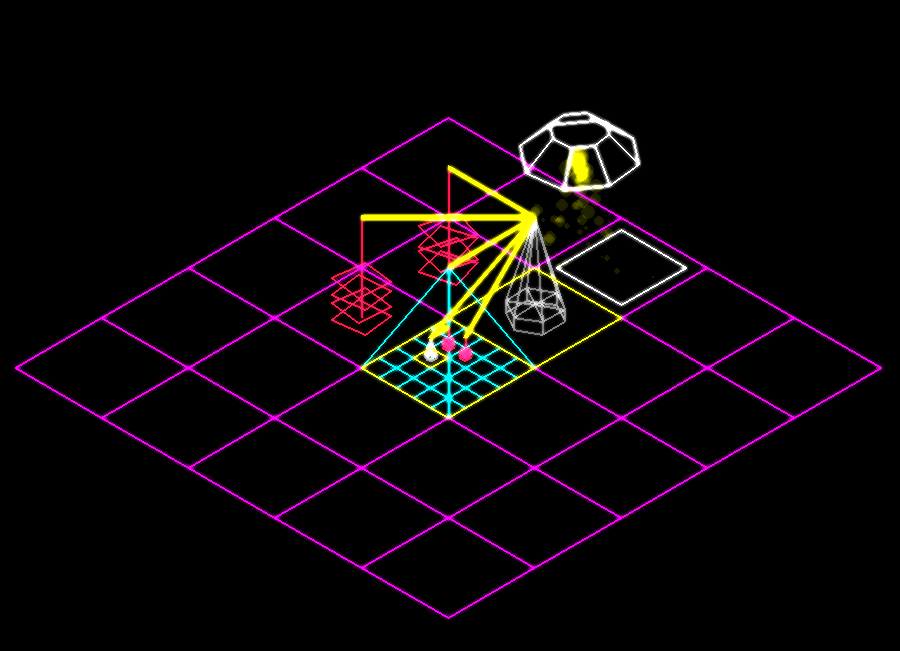
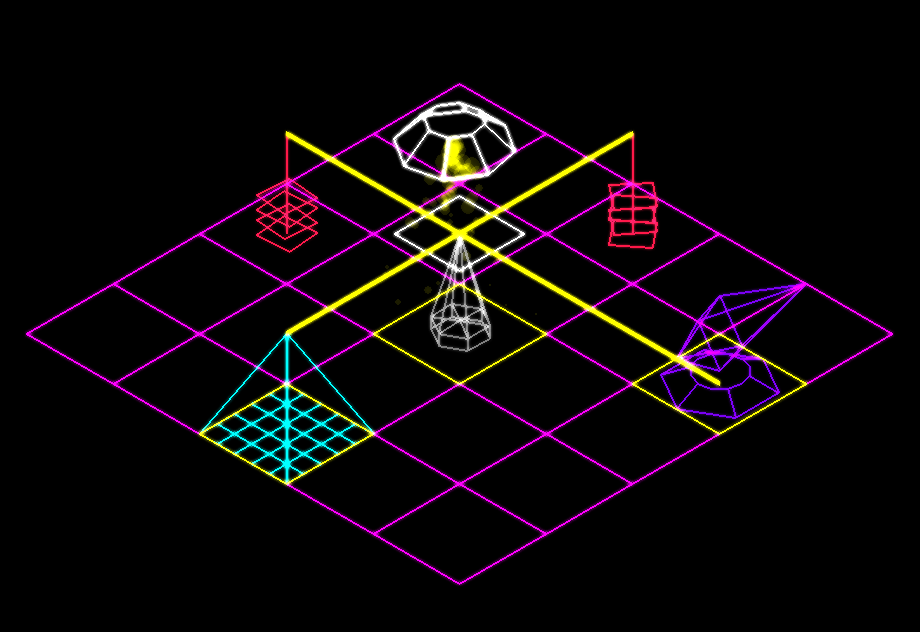
policy for enemies

Changed region(s): [[0.0, 0.1203, 0.9956, 0.962]]

diff --git a/src/game.py b/src/game.py
@@ -134,6 +134,8 @@ class Game:
 
 		self.remove_unhealthy_objects()
 
+		self.place_enemies()
+
 		self.evolve_camera(dt)
 		self.generate_log()
 
@@ -359,6 +361,34 @@ class Game:
 		self.place_powered_object(Cannon())
 	def place_warper(self):
 		self.place_powered_object(Warper())
+
+	def get_base_c_R(self):
+		powered = [o for o in self.objects if isinstance(o,PoweredObject)]
+		for o in powered:
+			assert type(o.r)==Vector2
+		c = Vector2(0,0)
+		for o in powered:
+			c+=o.r
+		if len(powered)==0:
+			c = 0
+			R = 0
+		else:
+			c/=len(powered)
+			R = max([(c-o.r).length() for o in powered])
+		# c = sum([o.r for o in powered])/len(powered)
+		
+		return c, R
+
+	def place_enemies(self):
+		num_bugs = len([o for o in self.objects if isinstance(o,Bug)])
+		num_engines = len([o for o in self.objects if isinstance(o,Engine)])
+		to_place = max(int(num_engines*DIFFICULTY - num_bugs),0)
+		c, R = self.get_base_c_R()
+		R = max(R,5)
+		for i in range(to_place):
+			b = random.choice([nimble,normal,tank])()
+			b.r = c + (R+5)*unit_vector(math.pi*2*random.random())
+			self.objects.append(b)
 
 
 

diff --git a/src/render.py b/src/render.py
@@ -91,7 +91,7 @@ def render_ray(surface,c,game):
 def render_particle(surface,p,game):
 	if abs(p.level - game.camera_level)>2:
 		return
-	R = p.get_radius()*(SUBDIVISION**game.camera_level)*CAMERA_CONSTANT_SCALE
+	R = p.get_radius()*CAMERA_CONSTANT_SCALE
 	particle_surface = pygame.Surface((2*R,2*R))
 	particle_surface.fill(BACKGROUND)
 	pygame.draw.circle(particle_surface,p.color,(R,R),R)
@@ -127,7 +127,7 @@ def get_minimap(game):
 	pygame.draw.circle(surface,game.builder.get_color(),mini_project(game.builder.r),2)
 	mini_objects = [o for o in game.objects if o.level<=game.builder.level ]
 	for o in mini_objects:
-		if type(o) != Bug and type(o) not in [Tower, HighTower]:
+		if type(o) != Bug and type(o) in [Cannon, Warper]:
 			pygame.draw.circle(surface,o.get_color(),mini_project(o.r),BLIP_RADIUS)
 	for o in mini_objects:
 		if isinstance(o,PoweredObject):

diff --git a/src/particle.py b/src/particle.py
@@ -23,11 +23,13 @@ class Particle:
 		f = min(1,self.time/self.max_time)
 		return (1-f)*self.radius
 
-def explosion(number,r,max_v,min_v,bias_v,radius,color):
+def explosion(size,number,r,max_v,min_v,bias_v,radius,color):
 	sqrt3 = math.sqrt(3)
+	r = Vector3(r.x,r.y,r.z*size)
+	bias_v*=size
 	particles = []
 	def rand_v():
-		return (max_v+random.random()*(max_v-min_v))
+		return (max_v+random.random()*(max_v-min_v))*size
 	for i in range(number):
 		p = Particle(r,shift = 1/2)
 		p.color = color

diff --git a/src/object.py b/src/object.py
@@ -14,7 +14,7 @@ class GameObject:
 	def get_particles(self):
 		return []# explosion(1,self.r,1,0.5,K3,0.1)
 	def get_final_particles(self):
-		return explosion(1000,self.r,5,2,K3-K3,0.1,darken(self.get_color(),0.1))
+		return explosion(self.get_render_size(),1000,Vector3(*self.r,1/2),5,2,K3-K3,0.1,darken(self.get_color(),0.1))
 	def evolve(self,dt):
 		self.time+=dt
 	def size(self):

diff --git a/src/builder.py b/src/builder.py
@@ -12,5 +12,5 @@ class Builder(MovingObject):
 		L2 = [b/4 + K3 + K3/4 for b in BASE]
 		return make_pair_list(L1)+make_pair_list(L2)+interweave(L1,L2)
 	def get_particles(self):
-		return explosion(1,Vector3(*self.r,1),1,0,-2*K3,0.1,darken(YELLOW,0.1))
+		return explosion(self.get_render_size(),1,Vector3(*self.r,1),1,0,-2*K3,0.1,darken(YELLOW,0.1))
 

diff --git a/src/cannon.py b/src/cannon.py
@@ -62,7 +62,7 @@ class Cannon(PoweredObject):
 	def get_particles(self):
 		k = self.get_k()
 		if self.target and k==1:
-			return explosion(10,self.target.r,5,2,K3-K3,0.2,darken(GREEN,0.1))
+			return explosion(self.get_render_size(),10,Vector3(*self.target.r,1/2),5,2,K3-K3,0.2,darken(GREEN,0.1))
 		return []
 
 

diff --git a/src/conf.py b/src/conf.py
@@ -52,7 +52,9 @@ def play_sound(s):
 MINI_WIDTH = WIDTH/4
 MINI_HEIGHT = HEIGHT/4
 MINI_SCALE = 4
-BLIP_RADIUS = 2
+BLIP_RADIUS = 3
+
+DIFFICULTY = 0.1 # range from 0 to infinity - 0 has no bugs
 
 
 CLOCK = pygame.time.Clock()

diff --git a/src/battery.py b/src/battery.py
@@ -5,6 +5,9 @@ class Battery(PoweredObject):
 	CAPACITY = 10
 	def get_color(self):
 		return GREEN
+	def __init__(self):
+		super().__init__()
+		self.PORTS = [Port(self,K3/2)]
 	def get_lines(self):
 		n = 4
 		height = 1

diff --git a/README.md b/README.md
@@ -60,7 +60,7 @@ Controls can be configured by changing `./src/controls.py`
 - Cannons shoot any bug within range and at the same spatial scale as them. They do not target bugs in space warped relative to their space, so place cannons at all scales for an effective defense.
 - Cannons draw a lot of power when firing. Place batteries to provide reserve stores for the cannons to draw on in case the engines get destroyed.
 - If a warper loses power, all the elements within it are destroyed. This results in a rapid decay in power output if you rely on engines inside a warper for your power. Keep an eye on your power generation.
-- Controls can be edited 
+- Placing more engines attracts more bugs, which call for more cannons for defense, which requires more engines to power, and so on. More engines require more space, which must either be defended using cannons or placed in a defended area using a warper, which in turn requires more engines to power. It's a fine balancing game.
 
 ## Screenshots:
 
@@ -74,4 +74,3 @@ Controls can be configured by changing `./src/controls.py`
 
 - [LMMS](https://lmms.io/) and [SFXR](https://www.drpetter.se/project_sfxr.html), for music and SFX
 - [DaFluffyPotato](https://dafluffypotato.itch.io/) for their [excellent explanation](https://www.youtube.com/watch?v=LFbePt8i0DI) of incorporating shaders in pygame
-- 
